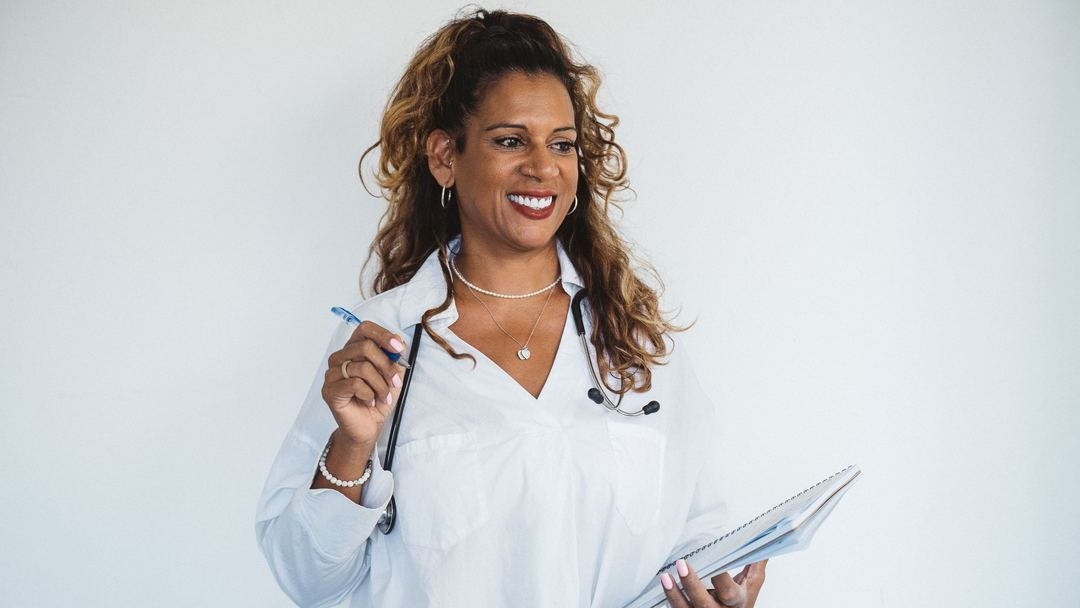
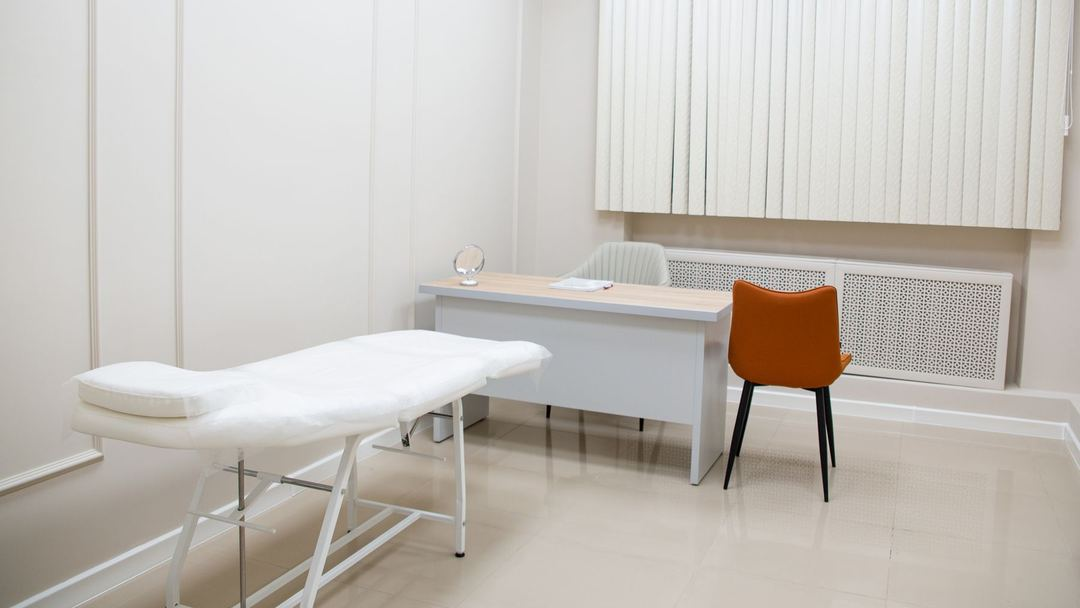
BTo Digital: cafe y consulta como lugares sin personas (Pexels)

diff --git a/digital/index.html b/digital/index.html
@@ -229,13 +229,13 @@
             <a class="btn" href="https://wa.me/56923971471?text=Hola%2C%20quiero%20conversar%20sobre%20marketing%20digital%20para%20mi%20negocio." target="_blank" rel="noopener">Escríbenos por WhatsApp <span aria-hidden="true">→</span></a>
         </div>
         <figure class="p-foto" id="p-foto">
-            <img class="on" src="img/cafe-1.jpg" alt="Dueña de un café disfrutando su café de la mañana" data-r="Restaurantes y cafés" width="1800" height="1013" fetchpriority="high" decoding="async" style="object-position:60% 35%">
+            <img class="on" src="img/cafe-1.jpg" alt="Máquina de espresso y tazas listas sobre el mostrador de una cafetería" data-r="Restaurantes y cafés" width="1800" height="1013" fetchpriority="high" decoding="async" style="object-position:50% 50%">
             <img src="img/comercio-1.jpg" alt="Comerciante revisando pedidos en su florería" data-r="Comercios y empresas" width="1800" height="1013" decoding="async" loading="lazy" style="object-position:35% 35%">
             <!-- OCULTO-POR-AHORA (10-nov-2026, Alberto): ejecutivos de venta.
             <img src="img/ejecutivo-1.jpg" alt="Ejecutivo conversando en un café" data-r="Ejecutivos de venta" width="1800" height="1013" decoding="async" loading="lazy" style="object-position:60% 30%">
             -->
             <img src="img/taller-2.jpg" alt="Carpintero cortando madera en su taller" data-r="Oficios y talleres" width="2400" height="1602" decoding="async" loading="lazy" style="object-position:55% 55%">
-            <img src="img/profesional-1.jpg" alt="Doctora sonriendo con sus apuntes" data-r="Profesionales y consultas" width="1080" height="608" decoding="async" loading="lazy" style="object-position:50% 25%">
+            <img src="img/profesional-1.jpg" alt="Consulta médica luminosa con camilla y escritorio" data-r="Profesionales y consultas" width="1080" height="608" decoding="async" loading="lazy" style="object-position:50% 50%">
             <figcaption><b>Para</b><span id="p-rubro">Restaurantes y cafés</span></figcaption>
         </figure>
     </section>

diff --git a/digital/img/LICENCIAS.md b/digital/img/LICENCIAS.md
@@ -43,3 +43,4 @@ Las anteriores quedan respaldadas fuera del repo; las líneas de arriba sobre es
 Segunda ronda (13-nov): cafe-1, ejecutivo-1, profesional-1 y ejecutivo-2 cambiadas otra vez porque la primera elección no se leía claramente latina (objeción del orquestador). Ojo: en profesional-1 se lee «HOSPITAL» de fondo y en ejecutivo-2 un monitor con marca pequeña.
 Tercera ronda (13-nov): cafe-1 = comerciante de barrio de día; profesional-1 = doctora sin logos ni rótulos; ejecutivo-2 recortada sin el monitor Dell; ejecutivo-1 con el letrero del fondo y el logo del teléfono difuminados (edición permitida por la licencia Pexels).
 Cuarta ronda (14-nov): cafe-1 = latina en un café de día (logos de la taza y la polera difuminados); ejecutivo-1 = hombre conversando en un café, sin letreros ni manchas.
+Quinta ronda (14-nov, pedido de Alberto: lugares sin personas): cafe-1 = https://www.pexels.com/photo/34369008/ (Sylwester Ficek; recortada para no mostrar la marca de la máquina ni la botella); profesional-1 = https://www.pexels.com/photo/7789616/ (Ivan Babydov; consulta con camilla y escritorio, sin marcas). Respaldo de las anteriores fuera del repo.
